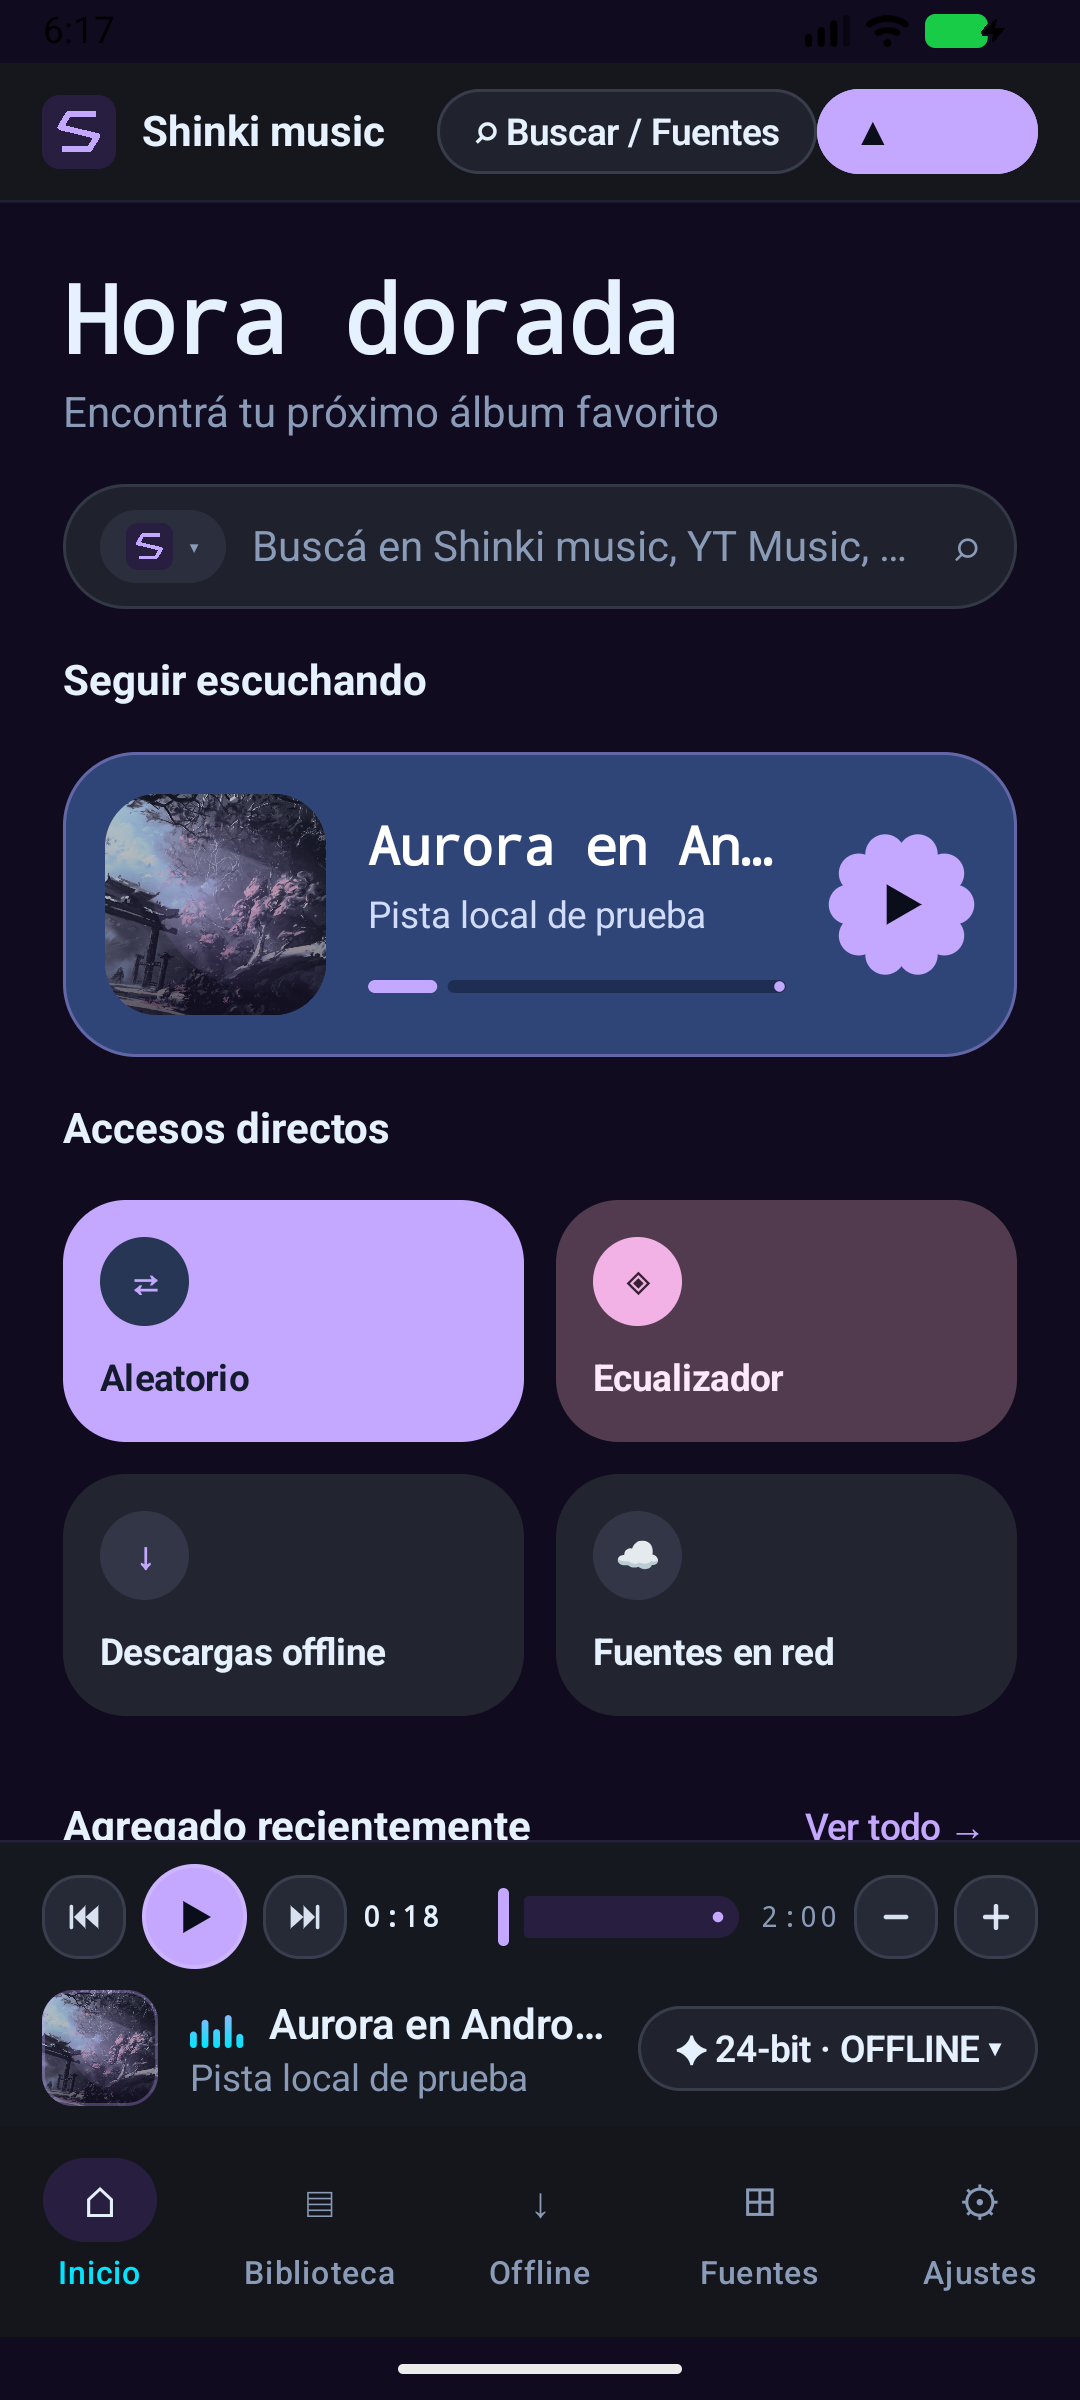
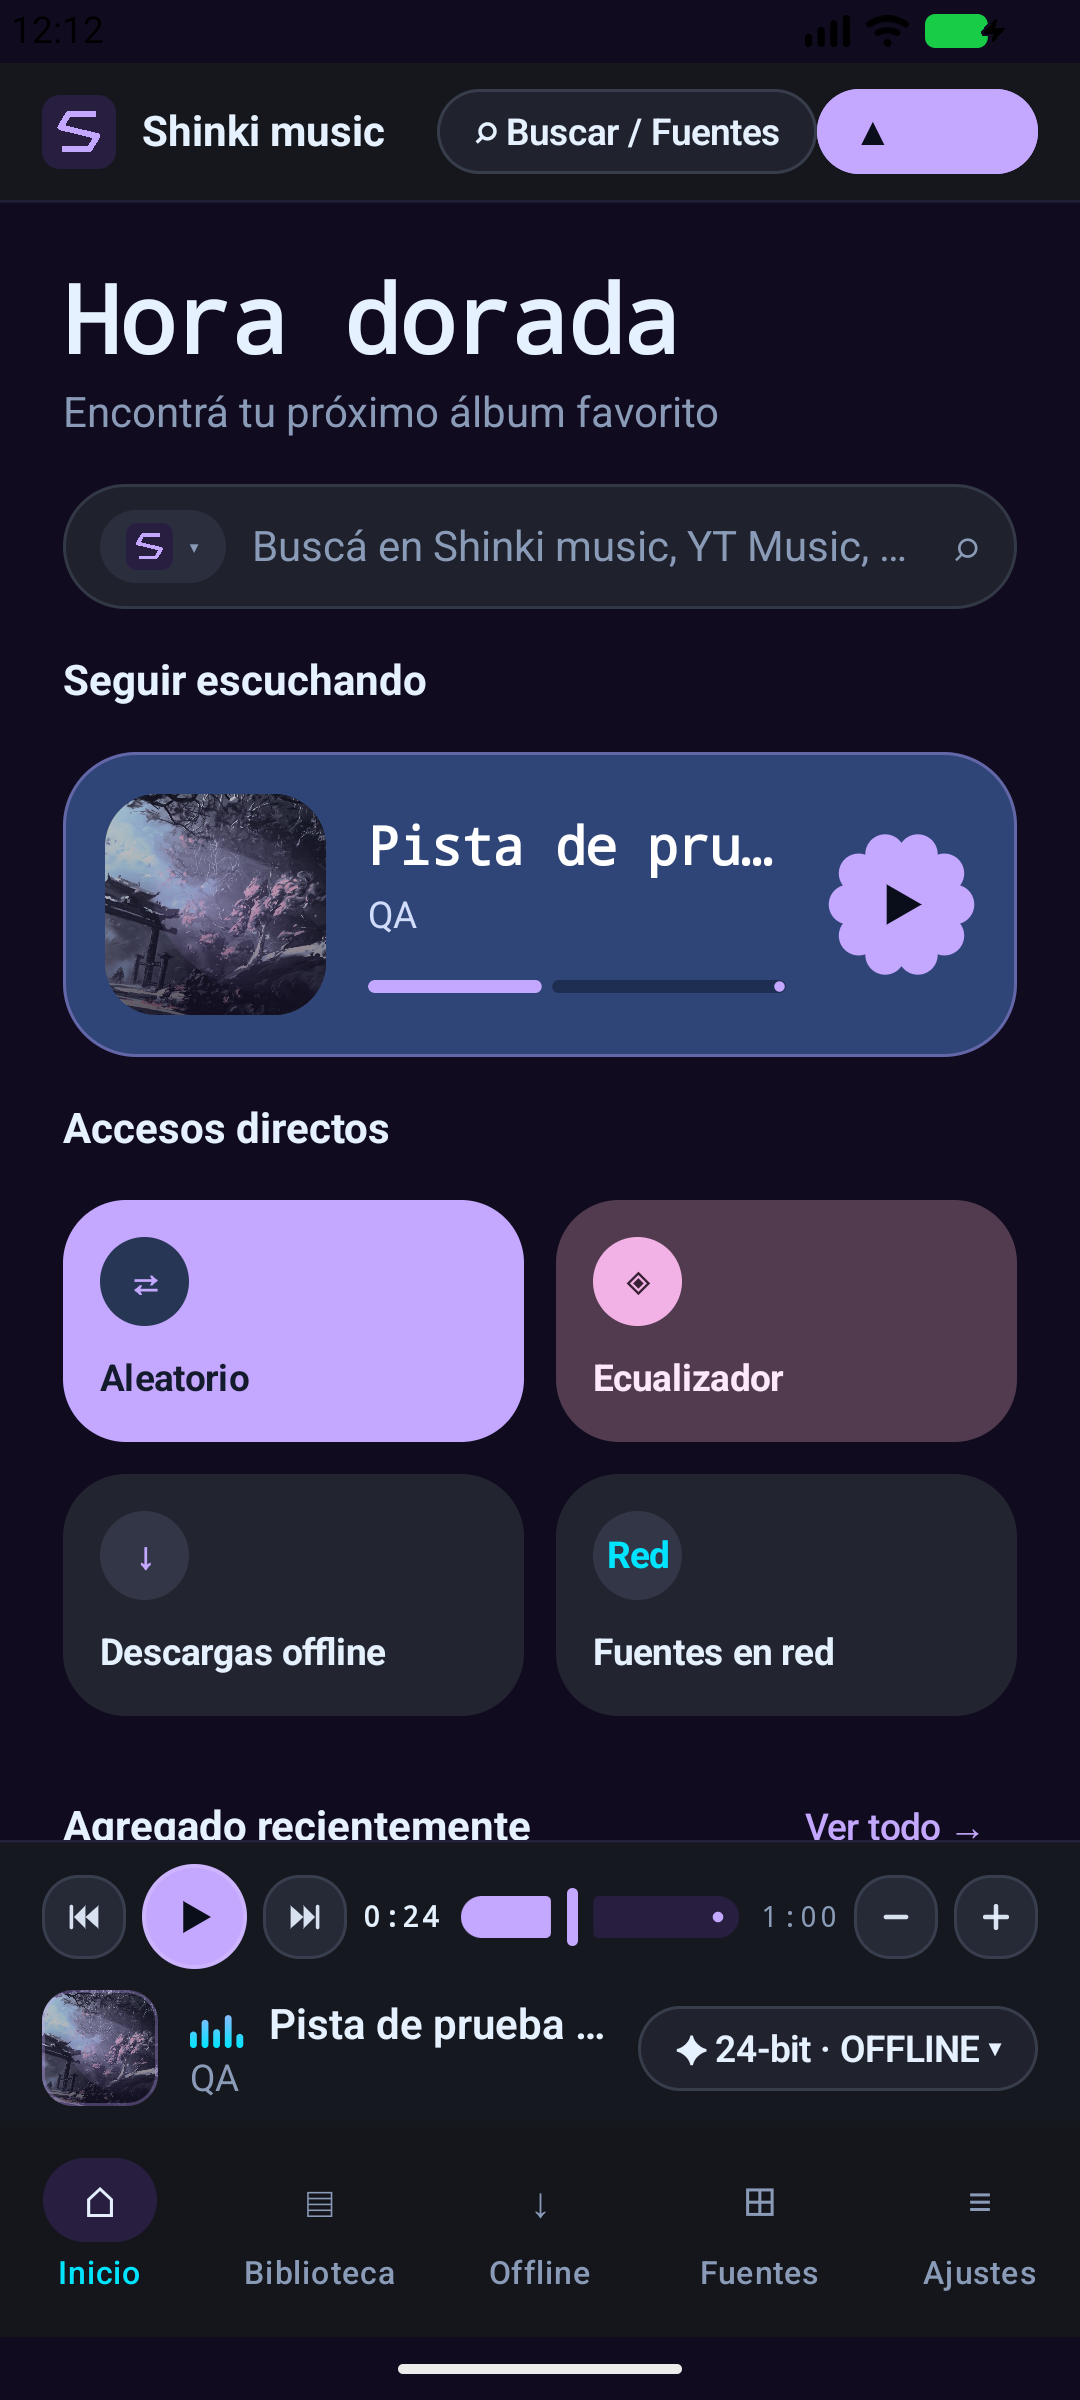
Documenta Aurora en español y los resultados de la revisión

diff --git a/docs/REVISION_5.3.3.md b/docs/REVISION_5.3.3.md
@@ -1,0 +1,105 @@
+# Revisión de Aurora 5.3.3
+
+Fecha: 13 de noviembre de 2026. Rama de trabajo: `release/5.3.3-limpieza`.
+
+## Pruebas de Android
+
+Se descargaron los APK públicos de las releases `v5.3.0` y `v5.3.1` de GitHub y se instalaron en un emulador `Medium_Phone_API_37.0`, Android 17, x86_64.
+
+1. Ajustes de la 5.3.0 mostró «Aurora v5.3.0 (compilación 168)».
+2. Buscar actualizaciones mostró «Actualización disponible · v5.3.1» y el botón Ver descarga.
+3. `adb install -r` instaló el APK público 5.3.1 sin desinstalar la 5.3.0. Android confirmó `versionName=5.3.1` y `versionCode=169`.
+4. La 5.3.1 reprodujo una canción real por streaming. Se pausó «Daft Punk - Get Lucky (Official Audio) ft. Pharrell Williams, Nile Rodgers» en 1:28, se envió la app al inicio, se cerró su proceso y se volvió a abrir. La misma canción apareció en 1:28, en pausa. El primer Play continuó la reproducción.
+5. En el APK final local 5.3.3, una pista WAV descargada de prueba se restauró en pausa a 0:20 después de cerrar el proceso. El primer Play avanzó a 0:22 con la misma pista. La secuencia se ejecutó con datos de QA limpios y después de comprobar el guardado periódico y la posición exacta al pausar.
+
+El ensayo usa instalación por ADB del APK publicado. Se verificó el aviso dentro de la app; no se recorrió la descarga e instalación desde el navegador del teléfono. Las capturas de jerarquía de UI y el script de comprobación están en `.qa/`, excluido de Git.
+
+## Compilación y tests
+
+- Se ejecutó de nuevo `:shared:jvmTest :shared:testAndroidHostTest :desktopApp:test` con `--rerun-tasks`: resultado exitoso.
+- La suite habitual, después de agregar la regresión del recurso, registra 58 pasados y uno omitido en JVM, 36 pasados en Android host y dos pasados y dos omitidos en Desktop. Las ejecuciones con red se detallan por separado para no contar un omitido como aprobado.
[1 lines of base64/hex data omitted]
+- Se agregó `BundledResourcesTest` para comprobar que el fondo siga disponible como JPEG en el classpath. El build completo pasó después de la corrección, incluidos Android Debug/Release y Android Lint.
+- `:androidApp:connectedDebugAndroidTest` con `liveHls=true`: tres tests pasados, sin fallos. Cubren HLS de audio real, reproducción en segundo plano con notificación, seek después del fin y persistencia de posición. La prueba HLS es optativa para mantener la suite habitual independiente de internet.
+- El test de sesión comprueba un checkpoint mientras la pista sigue sonando y después exige que el valor persistido coincida con la posición pausada. Limpia la sesión previa y desactiva autoplay en la fixture para evitar aceptar datos antiguos o consultar recomendaciones durante la prueba.
+- `:shared:jvmTest :desktopApp:test -PorbitLive=true`: 59 tests compartidos pasados y tres de escritorio pasados. Se comprobaron fuentes públicas, letras, búsqueda, continuación de resultados, resolución de stream y decodificación nativa. El test de teclas multimedia quedó omitido porque requiere una activación separada y puede interferir con la prueba manual de Windows.
+
+Para repetir la prueba HLS en PowerShell con un Android conectado:
+
+```powershell
+.\gradlew.bat :androidApp:connectedDebugAndroidTest "-Pandroid.testInstrumentationRunnerArguments.liveHls=true"
+```
+
+## Contraste del contexto con el código
+
+| Punto | Evidencia y alcance |
+| --- | --- |
+| Aurora 5.3.3, compilación 171 | `gradle.properties` y el `ReleaseInfo.kt` generado contienen esos valores. GitHub devuelve 5.3.1 como última release pública consultada. |
+| Seek unificado y sesión restaurada | `Playback.seekTo`, sus consumidores de barra/letras y los tests de `PlayerFeaturesTest`; reapertura probada en Android. |
+| Seek después del fin | `MpvEngine.seek` vuelve a cargar el stream; pasó la prueba nativa de EOF. El test instrumentado Android también busca después de `STATE_ENDED`. |
+| libmpv anterior a 0.38 | El código usa `set start` y `loadfile` sin el argumento adicional. No se ejecutó una versión antigua de la biblioteca. |
+| HLS en Android | Dependencia Media3 HLS, tipo MIME y detección de `.m3u8` presentes; tests de mapeo y reproducción HLS real de audio en el emulador pasados. La muestra es la variante AAC de los [ejemplos públicos de Apple](https://developer.apple.com/streaming/examples/). |
+| Permisos y segundo plano | Manifest, solicitud de notificaciones observada en Android y test de notificación multimedia pasado. |
+| Rendimiento | Búsqueda paralela, UI que separa pista/posición y escrituras acotadas presentes. No se ejecutó un benchmark comparativo. |
+| Cola automática | `playFromSearch`, lote por defecto de 8 y umbral de recarga de 3 presentes. Los tests cubren variantes, ranking y cola manual. El máximo de dos artistas consecutivos tiene las excepciones indicadas más abajo. |
+| Pesos | `RecommendationWeights` declara 0.45 / 0.30 / 0.25 y el scoring los usa. |
+| Volumen, mute y autoplay | Campos guardados y restaurados en `SessionStore`; tests de volumen/mute con debounce y aplicación previa a la carga pasados. |
+| Eventos de guardado | `MainActivity.onPause/onStop`, disposición del host Desktop, cambios de reproducción y umbral de posición presentes. Se probó cierre de proceso en Android; el cierre interactivo de Windows queda a la prueba del usuario. |
+
+## Limpieza
+
+Se conservaron las APIs públicas y los algoritmos de reproducción, búsqueda y recomendaciones. La limpieza retira imports sin uso, comentarios que narraban la interfaz y emojis de etiquetas; reemplaza aserciones de nulidad y mejora nombres locales. Se mantienen cabeceras de licencia, atribuciones y explicaciones sobre límites de almacenamiento, concurrencia, cancelación y aislamiento de previews.
+
+Se ejecutó `ktlintFormat detekt build` al terminar los archivos editados. El comando se detiene porque `ktlintFormat` no existe en este proyecto. La comprobación independiente de `detekt` también devolvió «Task 'detekt' not found». Se ejecutó `build` por separado; no se agregaron plugins ni dependencias para simular esos controles. Android Lint terminó sin errores y con 14 advertencias en su reporte.
+
+Las capturas genéricas de excepciones que protegen fronteras de plataforma, proveedores y almacenamiento se conservan cuando reducirlas dejaría escapar errores antes convertidos en mensajes de UI. En particular, la captura de `Throwable` del descargador elimina el archivo parcial y vuelve a lanzar el mismo error. Eliminarla sin conservar esa garantía alteraría el comportamiento. No se encontraron `println` ni `Log.d` en los archivos Kotlin revisados; se mantiene el registro de errores reales de ExoPlayer.
+
+El barrido final no encontró `!!` ni imports explícitos sin referencias textuales, excluyendo operadores implícitos como `getValue`. Esa búsqueda es una comprobación auxiliar, no sustituye un analizador estático. No se eliminaron APIs públicas por carecer de consumidores internos.
+
+### Resumen por archivo
+
+Los archivos Kotlin modificados se verificaron de forma sucesiva con el comando solicitado y con `build` por separado, que terminó correctamente. Las tareas de linters ausentes no se cuentan como aprobadas.
+
+| Archivo | Cambio |
+| --- | --- |
+| `AndroidEngine.kt` | Referencias locales comprobadas en lugar de dos `!!`. |
+| `MpvEngine.kt` | Comprobaciones con mensaje para biblioteca y contexto nativos, sin `!!`. |
+| Desktop `main.kt` | Import de `Color` sin uso eliminado. |
+| `AndroidStorage.kt` | KDoc redundante eliminado. |
+| `EqualizerAndShortcuts.kt` | Cuatro KDoc descriptivos eliminados. |
+| `ListeningStats.kt` | Título sin símbolo decorativo. |
+| `M3uAndBackup.kt` | Comentarios redundantes y emoji de lista eliminados. |
+| `MusicShell.kt` | Cuatro imports sin uso, descripciones visuales y pictogramas limpiados; atribuciones conservadas. |
+| `OfflineDownloads.kt` | Etiquetas de descarga, carpeta y papelera con texto simple. |
+| `Playback.kt` | Respuestas de recomendaciones y streams con nombres locales del dominio; KDoc redundante eliminado. |
+| `PlayerDock.kt` | Tres imports sin uso y comentarios visuales redundantes eliminados. |
+| `PlayerOptions.kt` | Tres imports sin uso, comentarios redundantes y emoji de estadísticas eliminados. |
+| `Recommendations.kt` | Comentarios por pasos, dos KDoc descriptivos y emoji de tendencia eliminados. |
+| `SessionStore.kt` | Imports ordenados y nombres locales aclarados; formato e intervalos conservados. |
+| `SyncedLyrics.kt` | Cuatro KDoc descriptivos eliminados y nombres locales de respuesta y marcas de tiempo aclarados. |
+| `SqlHistoryStore.kt` | Documentación redundante eliminada y descripción incorrecta de “no-op” corregida. |
+| `MusicSource.kt` | Etiqueta SoundCloud sin pictograma. |
+| `TrackDownloader.kt` | KDoc genérico eliminado; interfaz conservada. |
+| `SearchScreen.kt` | Cuatro comentarios descriptivos eliminados; explicación del límite de scroll conservada. |
+| `FileTrackDownloader.kt` | Nombres locales de archivos, MIME, formato y error aclarados; garantía de limpieza conservada. |
+| `NewPipeGateway.kt` | Nombres locales de páginas y lotes aclarados y llamada segura innecesaria retirada. |
+| `PlayerFeaturesTest.kt` | Comparación explícita 5.3.0/5.3.1, `assertNotNull` y comentarios redundantes retirados. |
+| `PlaybackServiceTest.kt` | Fixture aislada, checkpoint durante reproducción y coincidencia exacta al pausar. |
+| `AndroidHlsTest.kt` | Prueba optativa de reproducción HLS de audio real. |
+| `BundledResourcesTest.kt` | Regresión de disponibilidad del fondo en el classpath. |
+
+También se quitó la copia idéntica del JPEG, se excluyó `.qa/`, se actualizó el README y su captura real de Android y se preparó la descripción en español para GitHub.
+
+No se encontraron archivos de agentes versionados ni trailers `Co-authored-by` o `Generated with` en el historial local examinado. La ausencia de esos patrones no demuestra cómo se escribió el código.
+
+## Diferencias y límites pendientes
+
+- La primera muestra HLS, de Mux, incluía video y falló en el decodificador H.264 del emulador (`c2.goldfish.h264.decoder`, `ERROR_CODE_DECODING_FAILED`). Se conservó el motor y se verificó el caso de audio con una muestra AAC de Apple. La reproducción HLS con video no quedó validada.
+- El límite de dos canciones consecutivas del mismo artista no es estricto: se calcula por lote, sin incluir el final de la cola existente, y permite excederlo cuando no queda otro artista. No se cambió ese algoritmo durante la limpieza.
+- La persistencia de posición usa un umbral monotónico de cinco segundos, emisiones del motor y una espera mínima entre escrituras. No es un temporizador que garantice escrituras exactamente cada cinco segundos.
+- La compatibilidad con libmpv anterior a 0.38 está respaldada por el código de carga; no se ejecutó una biblioteca antigua ni Linux real. La prueba nativa ejecutada usa la biblioteca de Windows disponible.
+- El APK público 5.3.1 tiene certificado Android Debug. Se comprobó con `apksigner verify --print-certs`. La firma estable de distribución sigue pendiente.
+- No se probaron Android físico/API 26, Android Auto ni CarPlay. Doble toque, crossfade/gapless y edición de playlists guardadas siguen fuera de estos cambios.
+- Los cambios de esta revisión se registraron en la rama `release/5.3.3-limpieza`. La publicación de instaladores firmados queda pendiente.
+
+La presentación en español para GitHub está en [GITHUB.md](GITHUB.md). El README mantiene enlaces a la versión pública 5.3.1 y distingue la revisión local de una publicación nueva.

diff --git a/README.md b/README.md
@@ -1,6 +1,6 @@
 # Shinki music
 
-**Un reproductor de música personal, de código abierto y sin anuncios, creado por JadenYuki4.** Buscá una canción en YouTube Music, armá tu cola y retomá la escucha donde la dejaste. Shinki comparte la interfaz entre Android, Windows y Linux, y usa un motor de audio nativo en cada plataforma.
+**Un reproductor de música personal, de código abierto y sin anuncios, creado por JadenYuki4.** Buscá música en YouTube Music, YouTube, SoundCloud o Bandcamp, armá tu cola y retomá la escucha donde la dejaste. Shinki comparte la interfaz entre Android, Windows y Linux, y usa un motor de audio nativo en cada plataforma.
 
 **Aurora 5.3.1** · [Descargar para Android](https://github.com/JadenYuki4/Shinki-music/releases/download/v5.3.1/Shinki-music-5.3.1.apk) · [Descargar para Windows x64](https://github.com/JadenYuki4/Shinki-music/releases/download/v5.3.1/Shinki-music-5.3.1.msi) · [Ver todas las versiones](https://github.com/JadenYuki4/Shinki-music/releases)
 
@@ -13,6 +13,8 @@
 - **Actualizar la app.** En Ajustes, **Buscar actualizaciones** consulta la última versión pública de GitHub. **Ver descarga** abre la página donde elegís el instalador. **Copiar diagnóstico** reúne la versión y los datos técnicos para informar un problema.
 
 ## Diseño
+
+<img src="docs/images/aurora-android.png" alt="Interfaz de Shinki music en Android con una pista local de prueba" width="320">
 
 Shinki usa fondos oscuros, acentos violeta y cian y títulos geométricos. En el teléfono, la navegación queda abajo y el minirreproductor sigue a mano mientras explorás. En escritorio, la barra lateral deja espacio para la biblioteca y un panel de cola o letras. **Violet Void**, **Neon Cyan** y **Monochrome Light** son algunas de las paletas disponibles. En Ajustes podés regular el resplandor, la animación y el redondeo, o activar el modo de bajo consumo. Los cambios de apariencia se aplican a la sesión.
 
@@ -59,7 +61,7 @@ bash gradlew :desktopApp:run
 bash gradlew :desktopApp:packageDeb
 ```
 
-**Pruebas** · Ejecutá `.\gradlew.bat :shared:jvmTest :desktopApp:test` para la lógica compartida y escritorio. Con un dispositivo Android conectado, usá `:androidApp:connectedDebugAndroidTest`.
+**Pruebas** · Ejecutá `.\gradlew.bat :shared:jvmTest :shared:testAndroidHostTest :desktopApp:test` para la lógica compartida, Android host y escritorio. Con un dispositivo Android conectado, usá `:androidApp:connectedDebugAndroidTest`.
 
 ## Documentación y ediciones
 

diff --git a/docs/GITHUB.md b/docs/GITHUB.md
@@ -1,0 +1,31 @@
+# Presentación del proyecto
+
+## Descripción breve para GitHub
+
+Reproductor de música de código abierto para Android y escritorio, hecho con Kotlin y Compose Multiplatform. Incluye búsqueda en varias fuentes, cola automática, biblioteca local, descargas, letras sincronizadas y restauración de sesión.
+
+## Qué hace
+
+Shinki music permite buscar canciones en YouTube Music, YouTube, SoundCloud y Bandcamp, reproducirlas y organizar una biblioteca personal. Incluye favoritos, historial, listas locales, descargas compatibles con reproducción sin conexión y letras sincronizadas cuando están disponibles. Al volver a abrir la app, recupera la canción y la posición guardadas para continuar con el primer Play.
+
+## Diseño
+
+La edición Aurora combina una interfaz oscura con acentos violeta y cian, tarjetas redondeadas y controles de reproducción siempre accesibles. En Android usa navegación inferior; en escritorio, una barra lateral y paneles para la cola y las letras. Las paletas y los ajustes visuales permiten adaptar la apariencia. Las referencias y atribuciones están en [NOTICE.md](../NOTICE.md).
+
+## Herramientas utilizadas
+
+- Kotlin Multiplatform y Compose Multiplatform: lógica e interfaz compartidas.
+- Media3 y ExoPlayer: reproducción y sesión multimedia de Android.
+- libmpv y JNA: reproducción en escritorio.
+- NewPipe Extractor: acceso a las fuentes musicales.
+- SQLDelight y SQLite: biblioteca e historial locales.
+- Multiplatform Settings: preferencias y sesión guardada.
+- Corutinas y Flow: trabajo asíncrono y estado de la aplicación.
+- Koin: inyección de dependencias.
+- Gradle y GitHub Actions: compilación y distribución.
+
+## Presentación pública
+
+El repositorio ya sirve como proyecto de portfolio. El README reúne funciones, diseño, captura de Android, tecnologías, compilación y licencia. Un tablero de GitHub Projects puede servir para organizar pendientes; no hace falta crear otro repositorio para presentar la aplicación.
+
+La versión pública consultada durante esta revisión es [Aurora 5.3.1](https://github.com/JadenYuki4/Shinki-music/releases/tag/v5.3.1). La 5.3.3 sigue siendo una versión local en revisión. Linux necesita validación real y la firma de distribución de Android y Windows sigue pendiente. Esas comprobaciones deben figurar como pendientes en la presentación.
